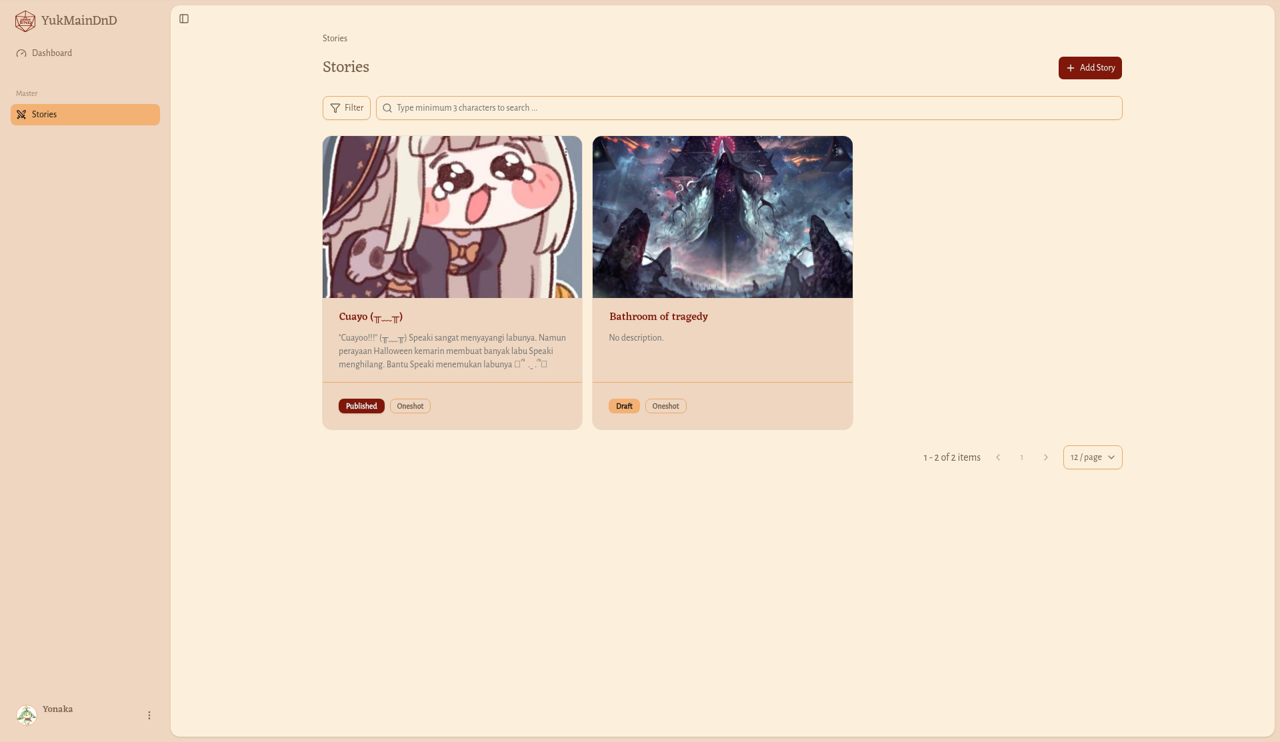
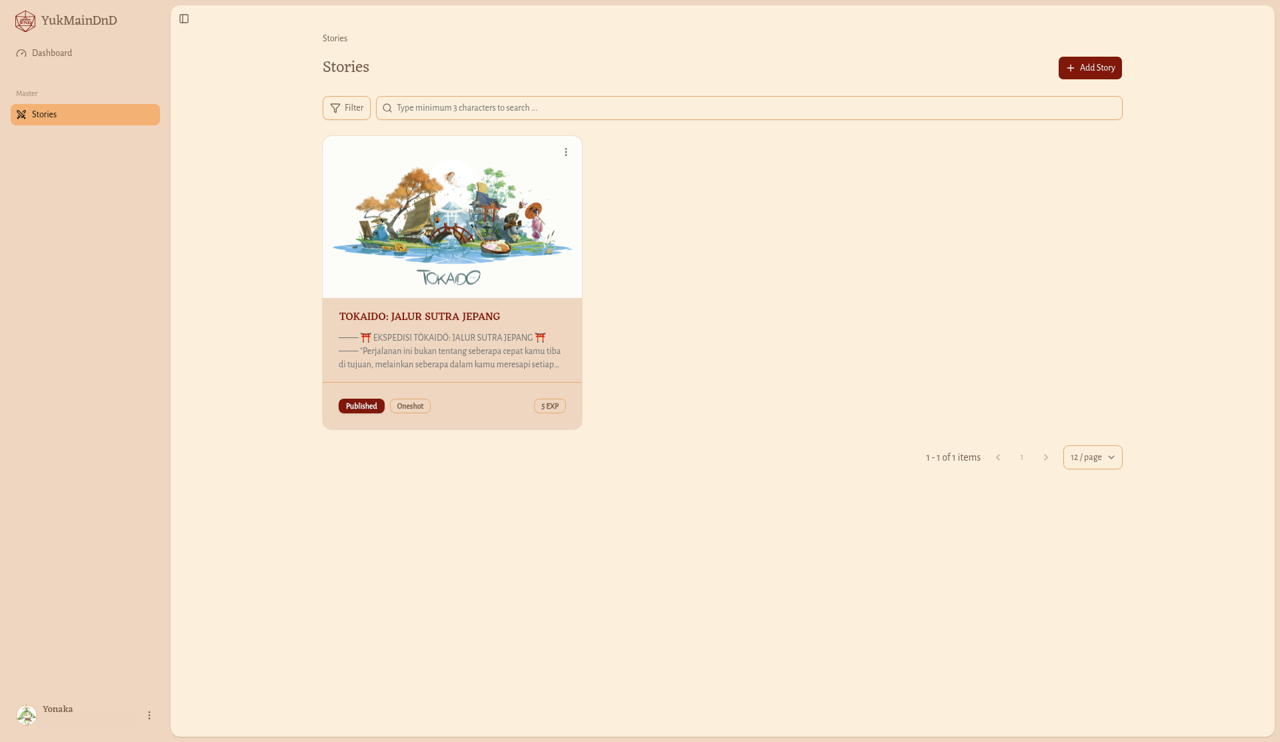
Retake master stories list and add Filter popover screenshot

Changed region(s): [[0.25, 0.186, 0.6875, 0.5889], [0.7188, 0.5889, 0.75, 0.6199]]

diff --git a/docs/dungeon-master/story.md b/docs/dungeon-master/story.md
@@ -32,7 +32,7 @@ Tombol aksi hanya muncul di Story yang kamu tulis, dan berbeda menurut statusnya
 
 **Cara membuka:** di menu samping, di bawah **Master**, klik **Stories**.
 
-![Daftar Stories dengan tombol Add Story, Filter, kolom pencarian, dua kartu Story berstatus Published dan Draft, serta pilihan 12 / page](../images/dm-stories-1.png)
+![Daftar Stories dengan tombol Add Story, Filter, kolom pencarian, satu kartu Story milik sendiri berstatus Published, serta pilihan 12 / page](../images/dm-stories-1.png)
 
 Setiap kartu menampilkan gambar sampul, judul (klik untuk membuka detail), cuplikan cerita (atau **No description.**), status, jenis, serta hadiah EXP dan GP kalau ada.
 
@@ -55,6 +55,8 @@ Di bawah daftar ada tulisan seperti "1 - 2 of 2 items". Pilih jumlah kartu per h
 ### Melihat Story semua penulis
 
 Saat kamu membuka **Stories**, daftar hanya menampilkan Story yang kamu tulis sendiri. Di jendela **Filter**, kolom **Created By** sudah terisi namamu.
+
+![Jendela Filter terbuka dengan Sort By, Sort Order, Status, Type, Location, kolom Created By berisi nama sendiri, serta tombol Clear dan Apply](../images/dm-stories-filter-1.png)
 
 Untuk melihat Story yang ditulis semua DM:
 
